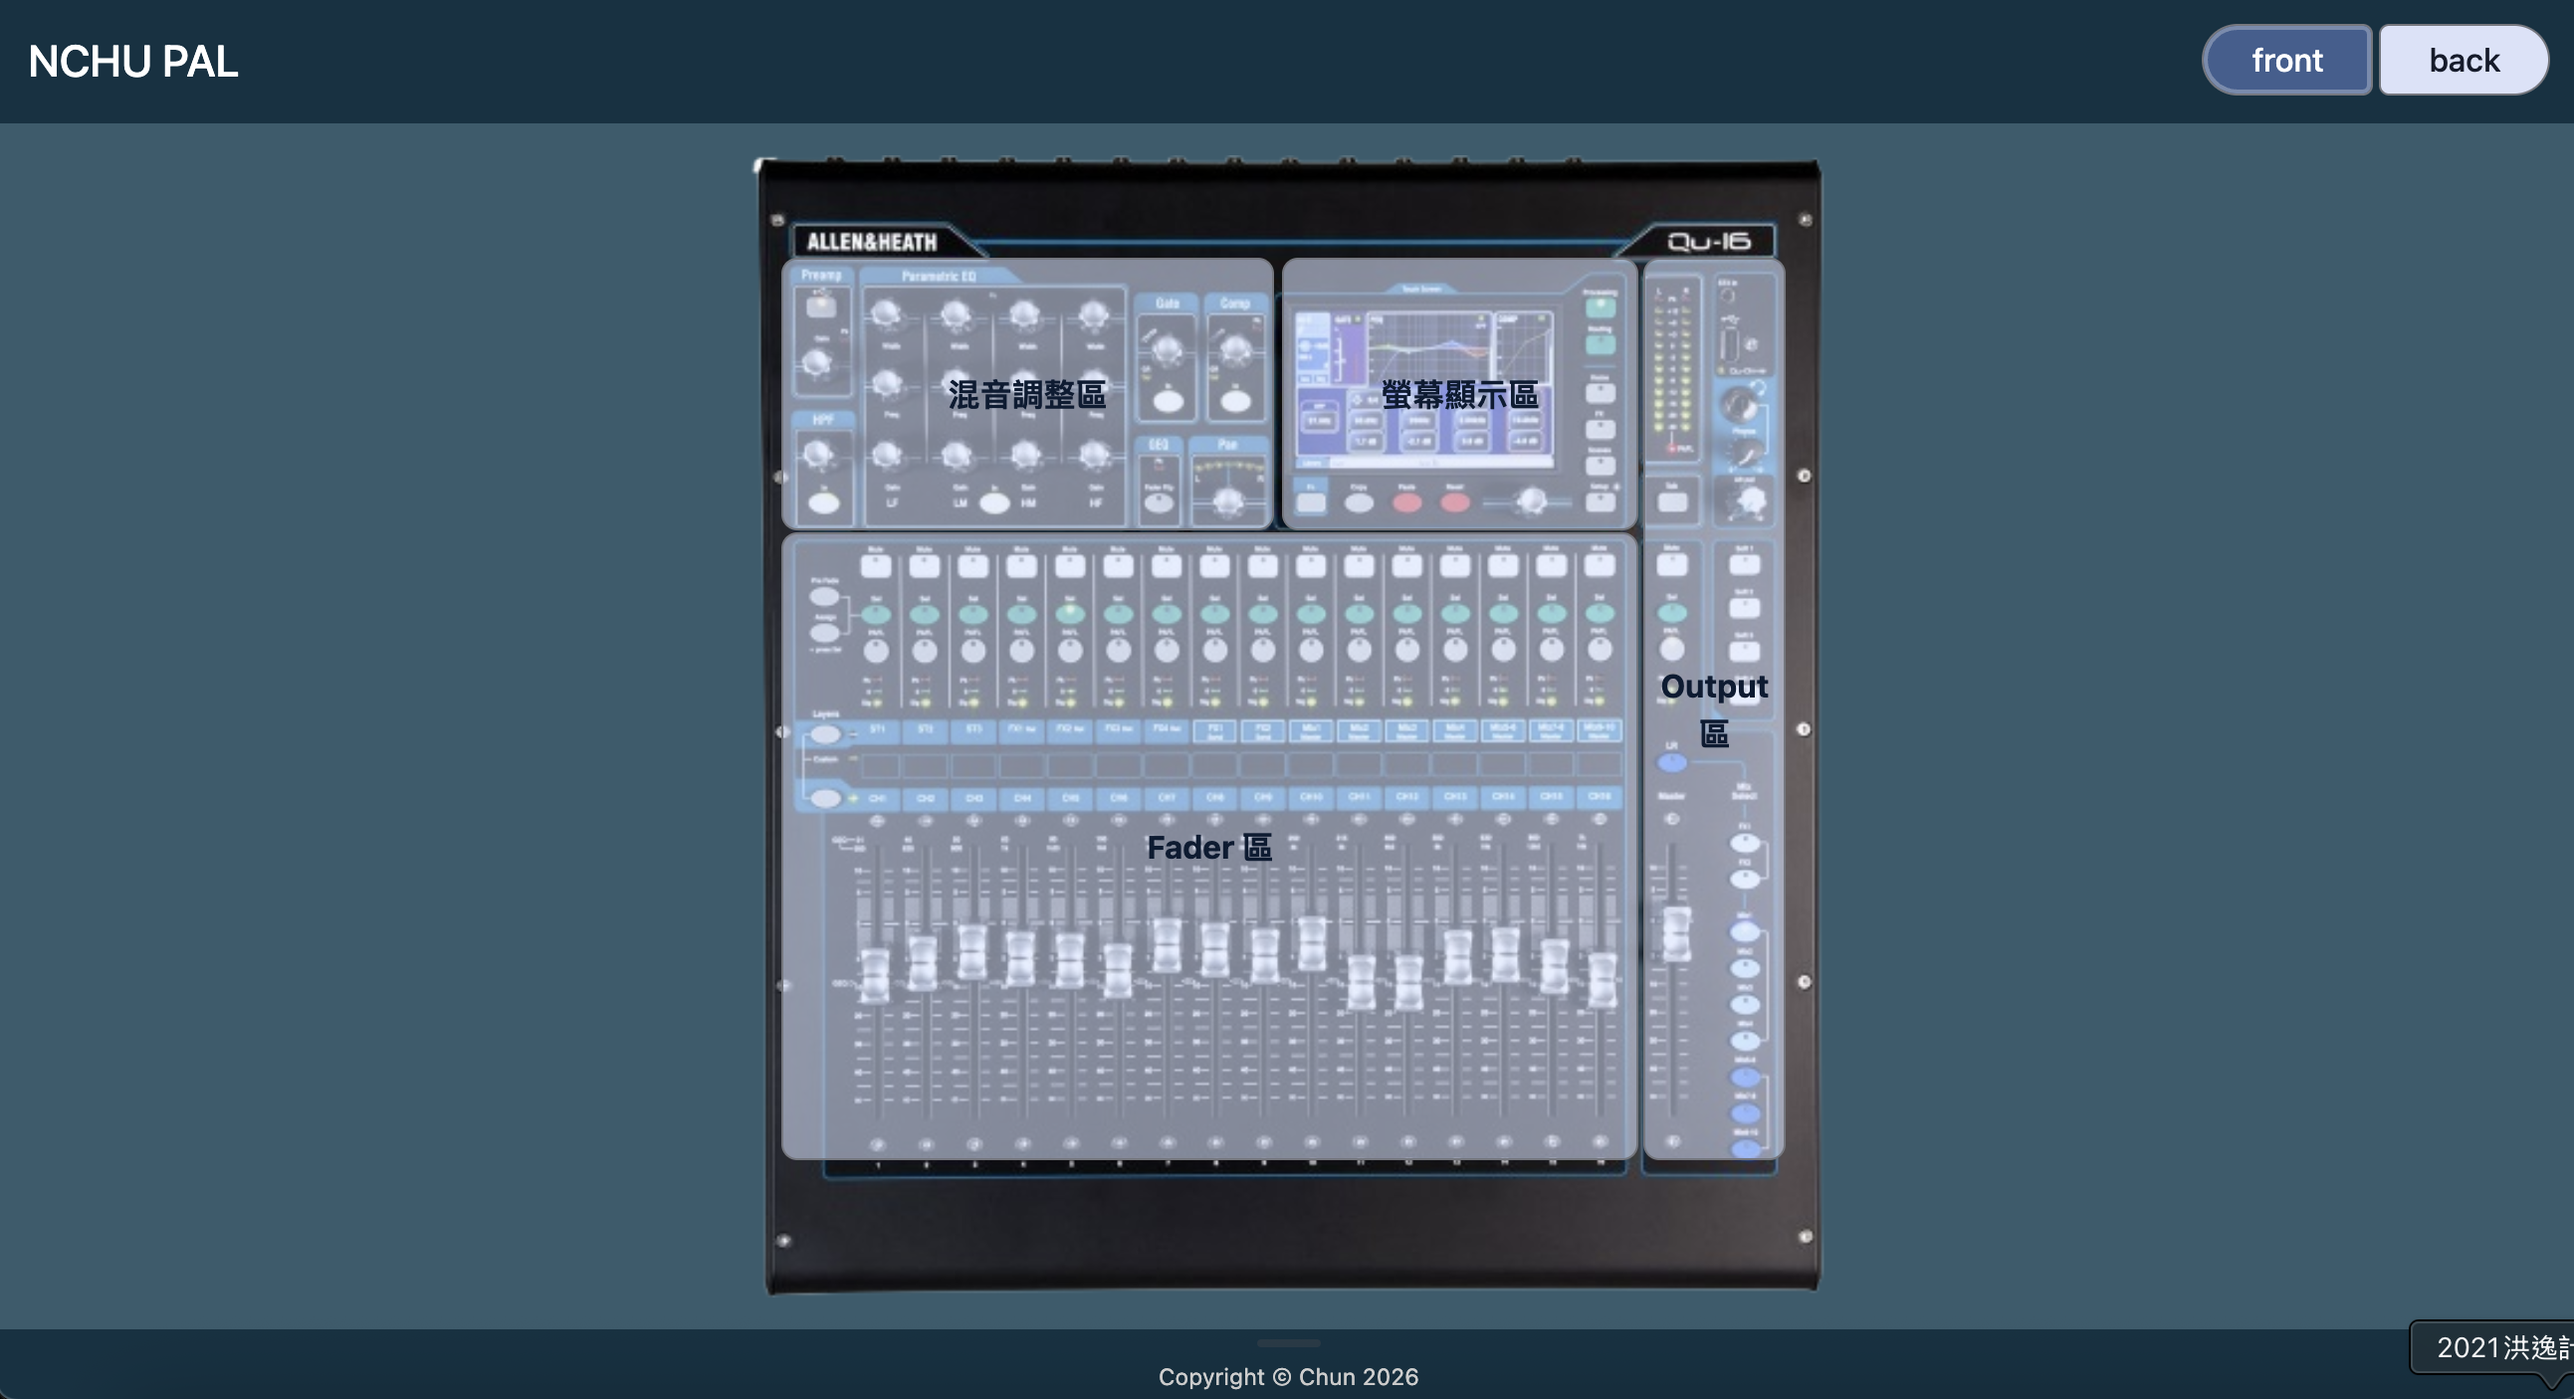
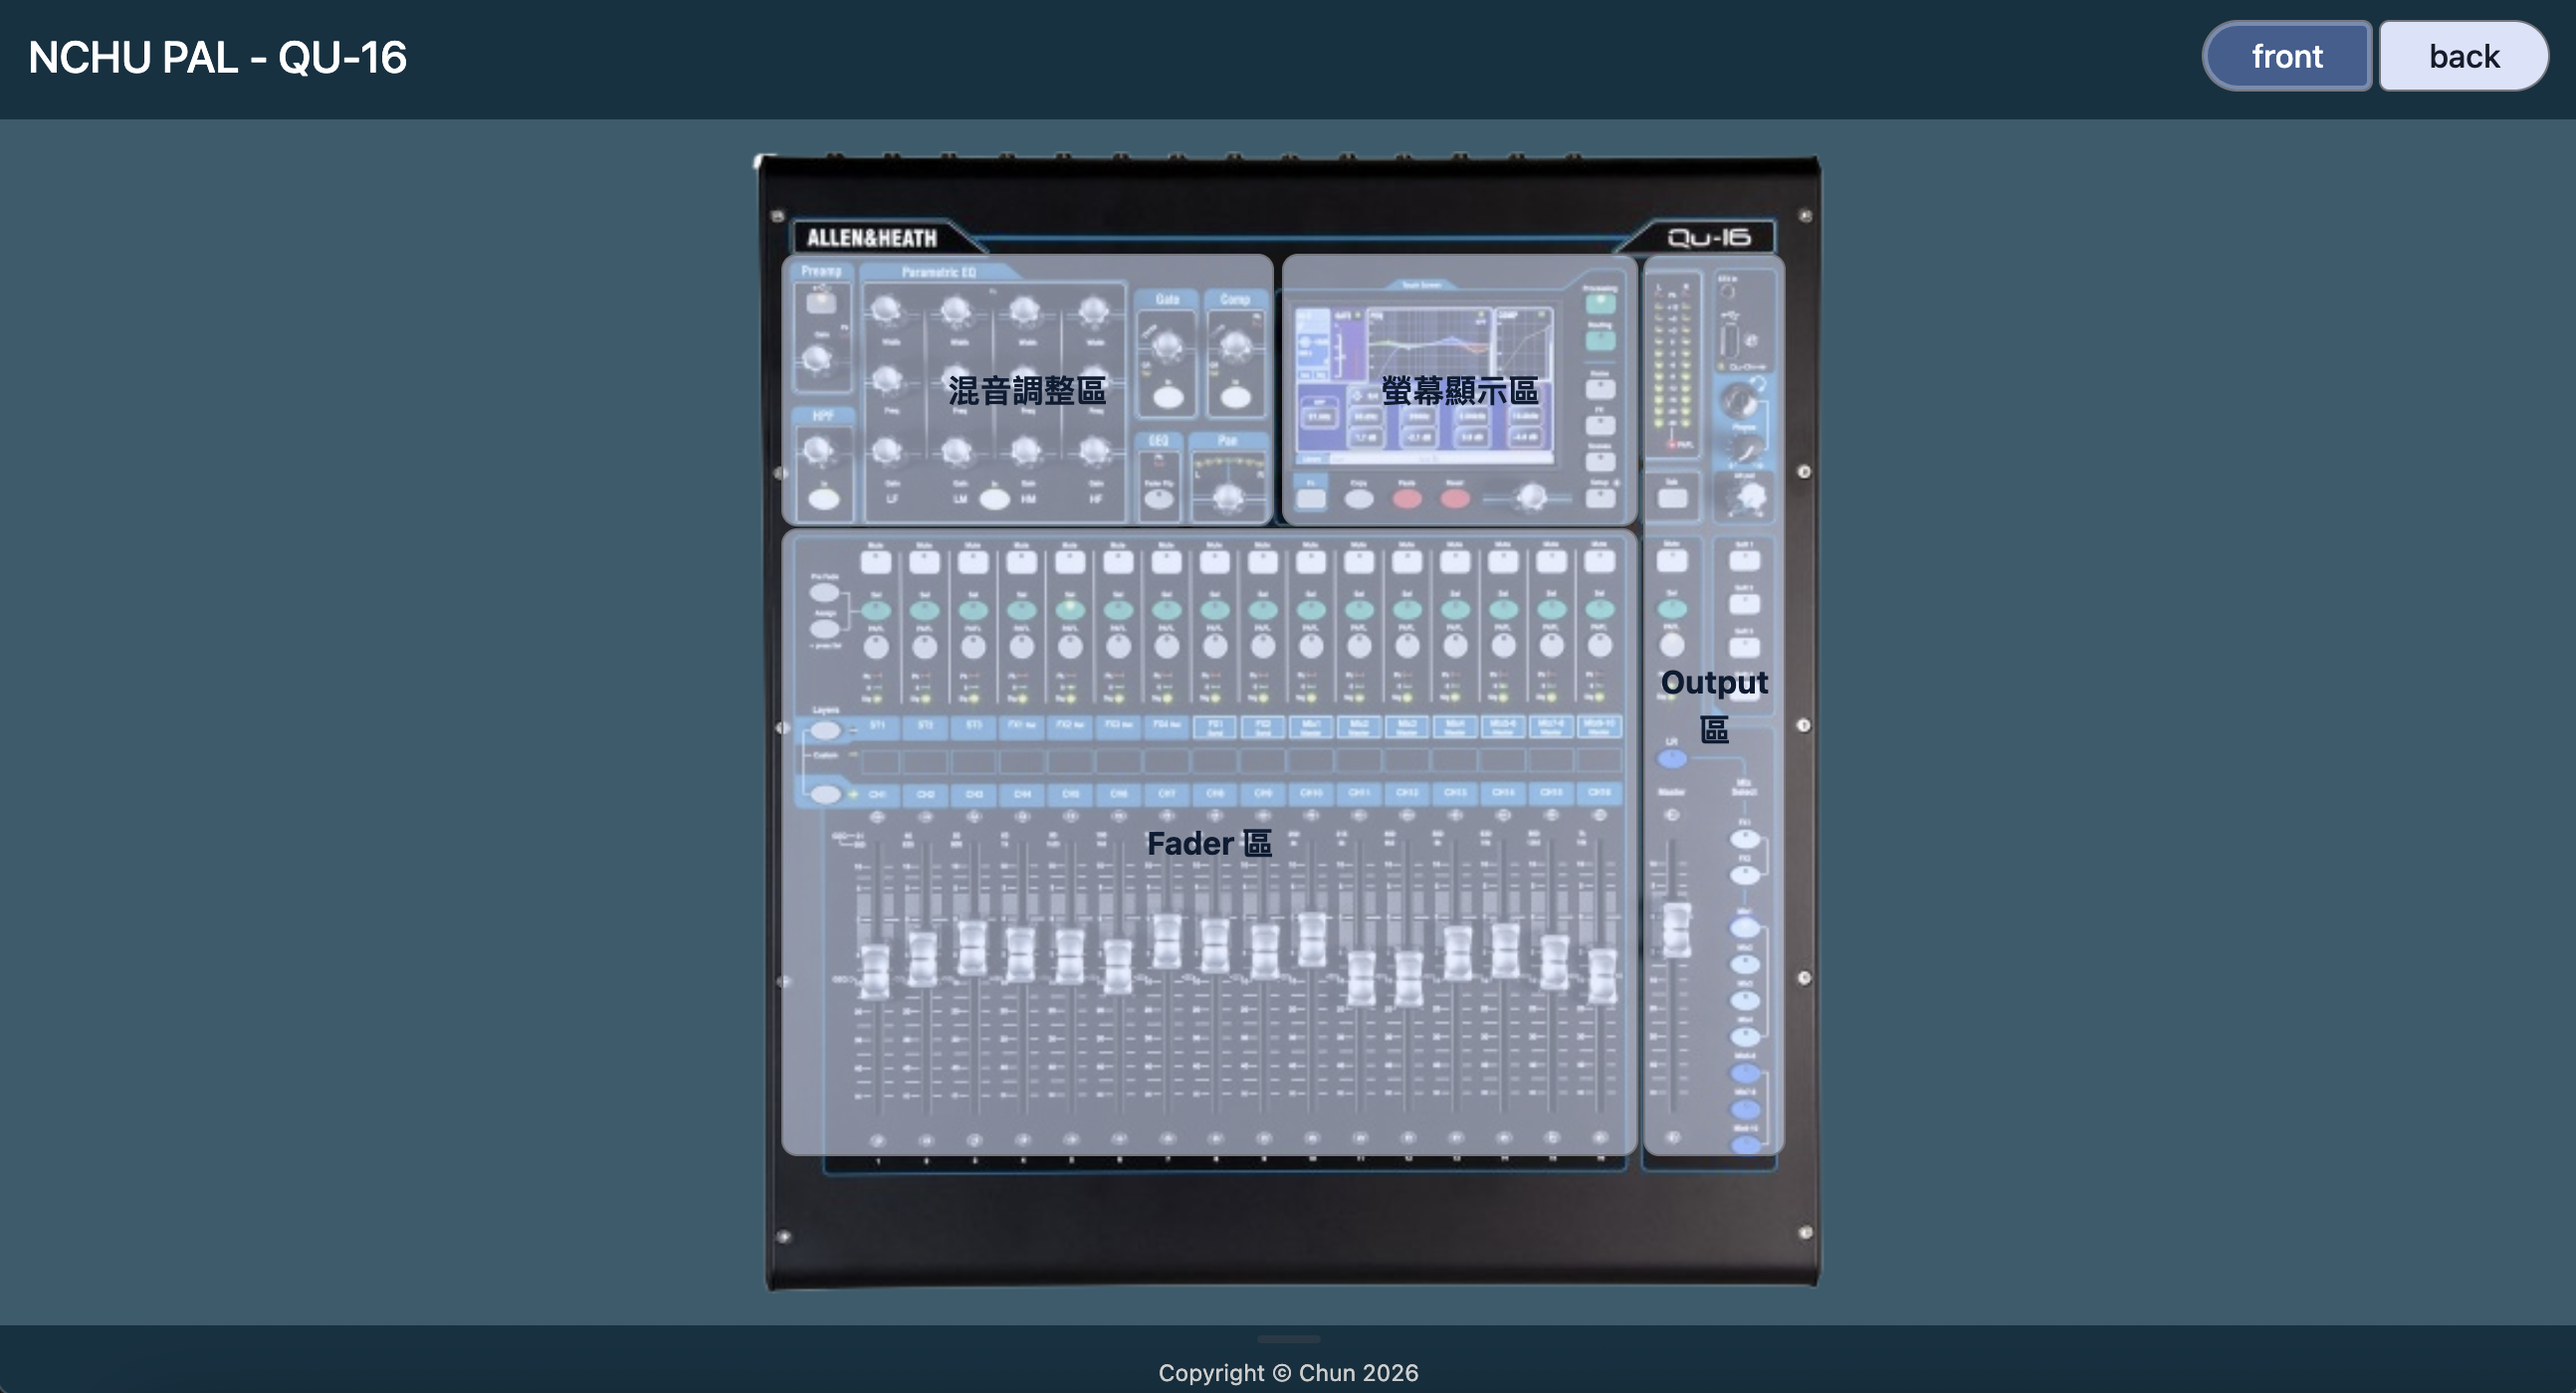
revise web pic

diff --git a/src/components/Header.jsx b/src/components/Header.jsx
@@ -3,7 +3,7 @@ import './Header.css';
 function Header(){
 	return(
 		<header className='brand-header'>
-			<p>NCHU PAL</p>
+			<p>NCHU PAL - QU-16</p>
 		</header>
 	);
 }
